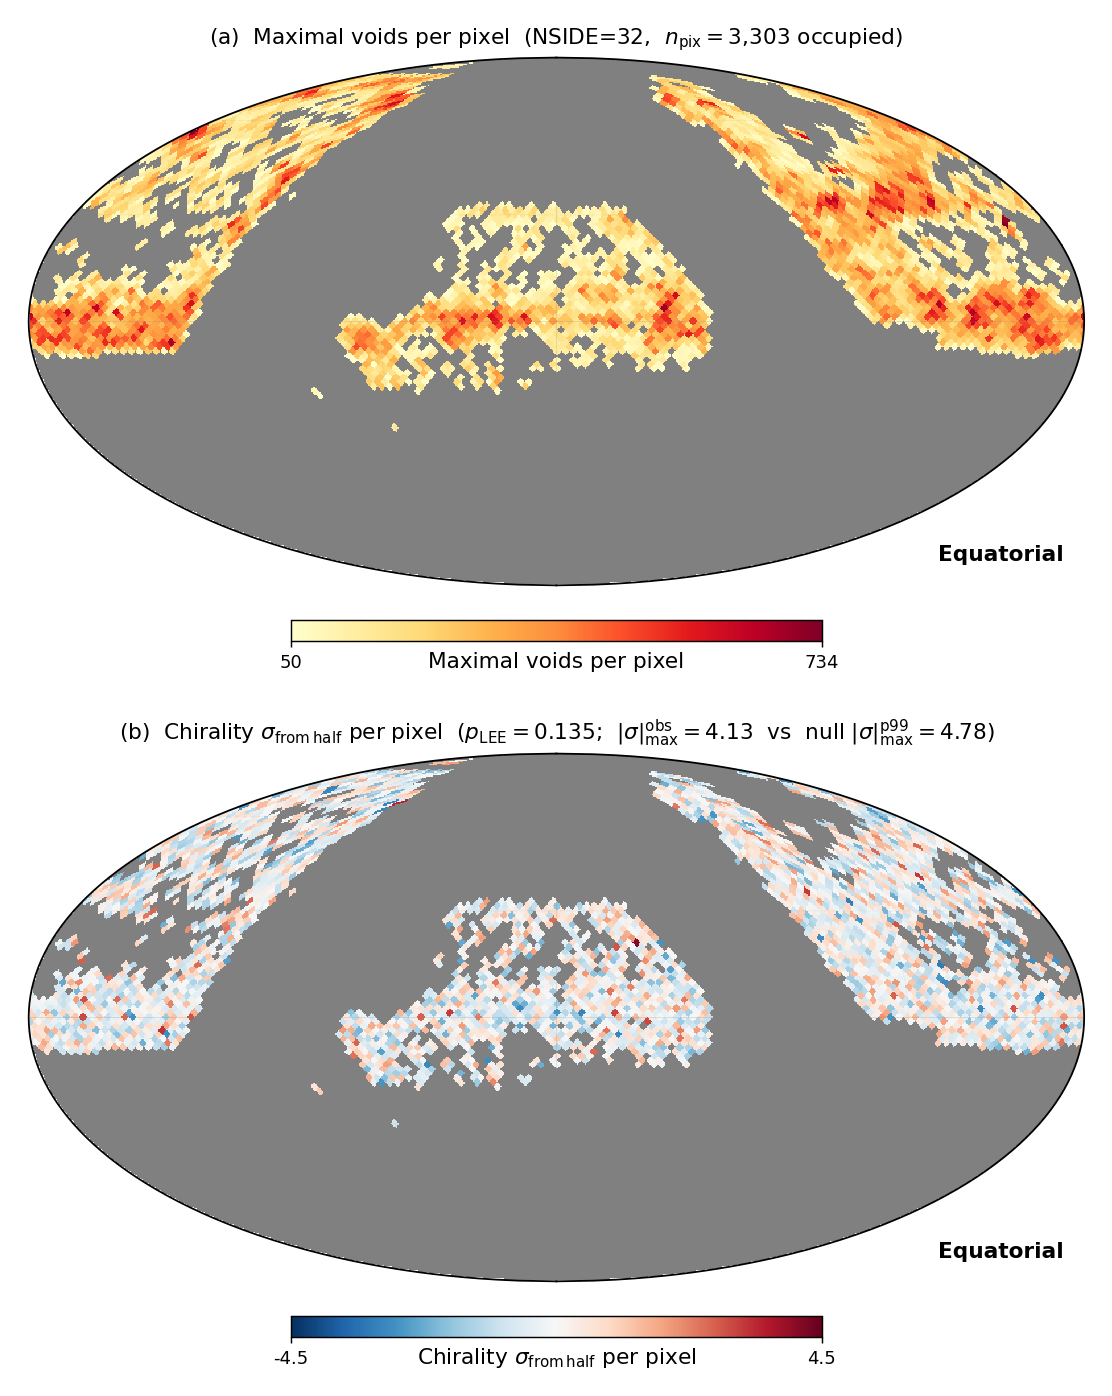
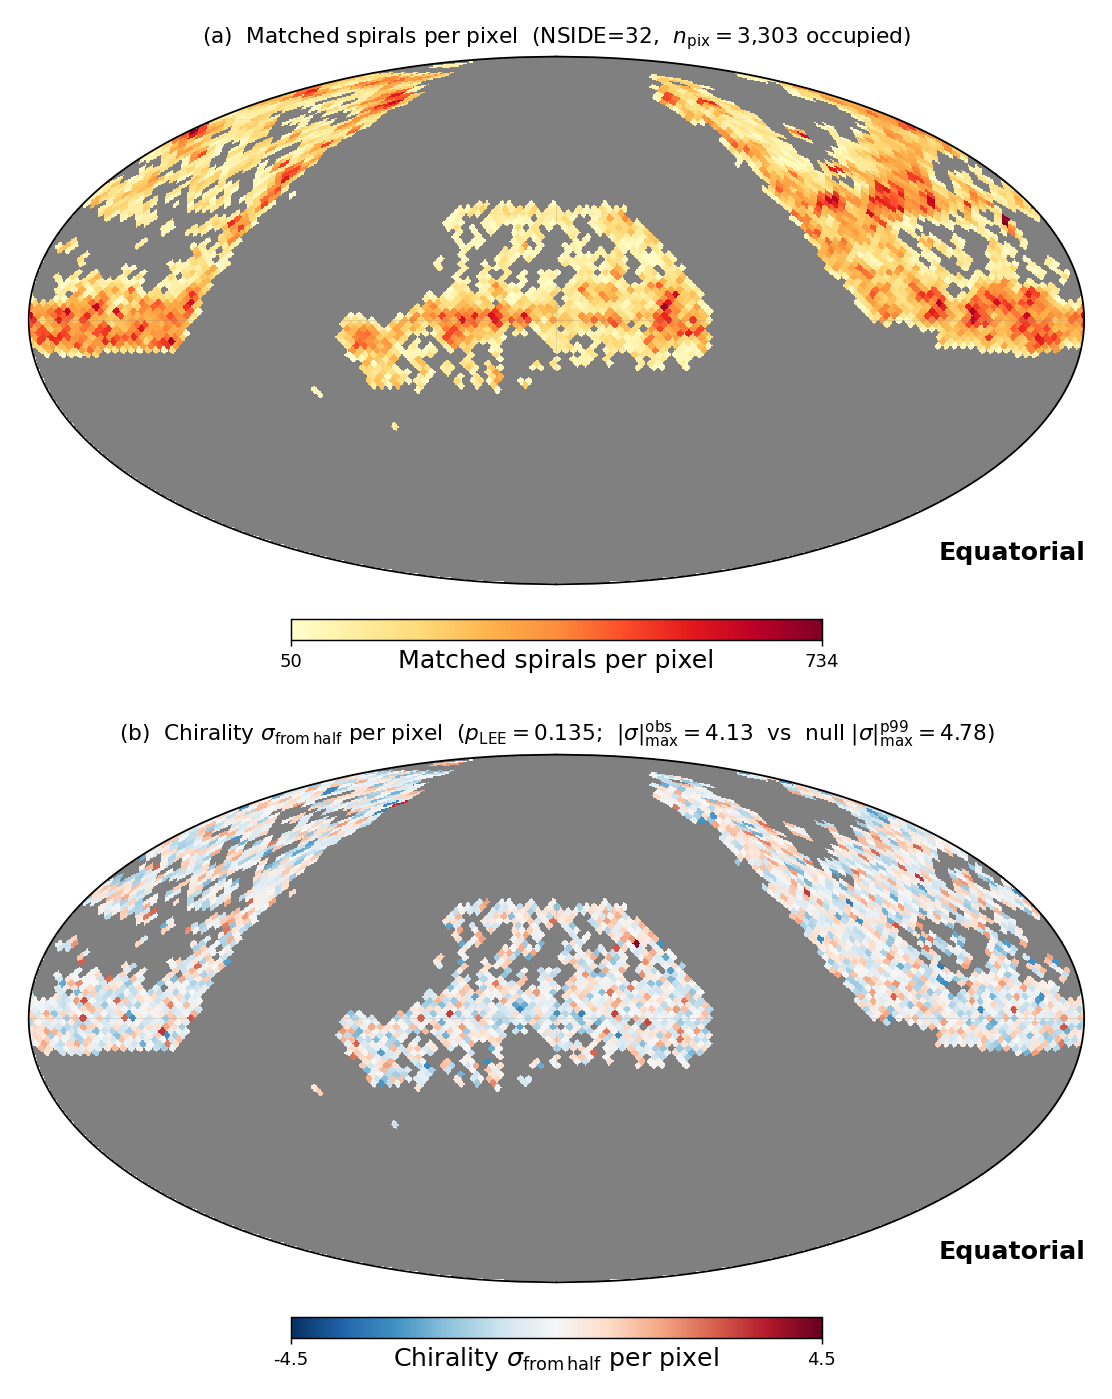
paper(p5): close catalog-native selection review

diff --git a/pipelines/p5_desi_chirality/scripts/37_make_void_chirality_skymap.py b/pipelines/p5_desi_chirality/scripts/37_make_void_chirality_skymap.py
@@ -1,0 +1,154 @@
+#!/usr/bin/env python3
+"""Regenerate P5 Figure 8 without the accidental outer Cartesian axes.
+
+The top Mollweide panel bins the 3,765 released VoidFinder MAXIMALS
+centres at HEALPix NSIDE=32.  The bottom panel bins the exact frozen
+z<=0.24 CW/CCW parent and displays sigma_from_half for pixels with at
+least 200 spirals.  Each healpy panel is rendered independently and the
+resulting raster panels are composited directly, so no 0--1 wrapper axes
+or overlapping wrapper labels can be introduced.
+"""
+from __future__ import annotations
+
+import tempfile
+from pathlib import Path
+
+import healpy as hp
+import matplotlib
+matplotlib.use("Agg")
+import matplotlib.image as mpimg
+import matplotlib.pyplot as plt
+import numpy as np
+import pandas as pd
+from astropy.io import fits
+from scipy import stats
+
+
+P5 = Path(__file__).resolve().parents[1]
+CACHE = P5 / "outputs/35_exact_primary_rows_cache.parquet"
+DESIVAST = P5 / "data/desivast"
+OUT = P5 / "paper/fig_p5_voids_vs_chirality_skymap.png"
+NSIDE = 32
+
+
+def render_panel(m: np.ndarray, title: str, cmap: str, vmin: float,
+                 vmax: float, unit: str, path: Path) -> np.ndarray:
+    plt.close("all")
+    hp.mollview(
+        m,
+        title=title,
+        cmap=cmap,
+        min=vmin,
+        max=vmax,
+        unit=unit,
+        cbar=True,
+        coord=["C"],
+        notext=False,
+    )
+    hp.graticule(dpar=30, dmer=60, color="#888888", alpha=0.3, lw=0.4)
+    plt.savefig(path, dpi=150, bbox_inches="tight", facecolor="white")
+    plt.close("all")
+    return mpimg.imread(path)
+
+
+def pad_white(image: np.ndarray, width: int) -> np.ndarray:
+    if image.shape[1] >= width:
+        return image
+    pad = np.ones(
+        (image.shape[0], width - image.shape[1], image.shape[2]),
+        dtype=image.dtype,
+    )
+    return np.concatenate([image, pad], axis=1)
+
+
+def main() -> int:
+    rows = pd.read_parquet(
+        CACHE,
+        columns=["desi_ra", "desi_dec", "match_class_eq"],
+    )
+    pix = hp.ang2pix(
+        NSIDE,
+        rows["desi_ra"].to_numpy(float),
+        rows["desi_dec"].to_numpy(float),
+        lonlat=True,
+    )
+    grouped = pd.DataFrame({
+        "pix": pix,
+        "cw": rows["match_class_eq"].to_numpy() == "CW",
+    }).groupby("pix")["cw"].agg(n="size", n_cw="sum")
+    grouped = grouped[grouped["n"] >= 200].copy()
+    grouped["sigma"] = (
+        grouped["n_cw"] - 0.5 * grouped["n"]
+    ) / (0.5 * np.sqrt(grouped["n"]))
+
+    ra_parts: list[np.ndarray] = []
+    dec_parts: list[np.ndarray] = []
+    for cap in ["NGC", "SGC"]:
+        path = DESIVAST / f"DESIVAST_BGS_VOLLIM_VoidFinder_{cap}.fits"
+        with fits.open(path, memmap=True) as hdul:
+            maximals = hdul["MAXIMALS"].data
+            ra_parts.append(np.asarray(maximals["RA"], dtype=float))
+            dec_parts.append(np.asarray(maximals["DEC"], dtype=float))
+    void_pix = hp.ang2pix(
+        NSIDE,
+        np.concatenate(ra_parts),
+        np.concatenate(dec_parts),
+        lonlat=True,
+    )
+    void_counts = pd.Series(void_pix).value_counts().sort_index()
+
+    npix = hp.nside2npix(NSIDE)
+    top = np.full(npix, hp.UNSEEN, dtype=float)
+    bottom = np.full(npix, hp.UNSEEN, dtype=float)
+    top[void_counts.index.to_numpy(int)] = void_counts.to_numpy(float)
+    bottom[grouped.index.to_numpy(int)] = grouped["sigma"].to_numpy(float)
+
+    both = grouped.join(void_counts.rename("n_voids"), how="inner")
+    r, p = stats.pearsonr(both["n_voids"], both["sigma"])
+    if len(void_counts) != 885 or int(np.median(void_counts)) != 4:
+        raise RuntimeError("unexpected maximal-void pixel distribution")
+    if len(grouped) != 1496 or len(both) != 727:
+        raise RuntimeError("unexpected chirality/both-pixel counts")
+    if not (abs(r - 0.005678491865223675) < 1e-12 and
+            abs(p - 0.8785192553228591) < 1e-12):
+        raise RuntimeError("pixel correlation does not reproduce the frozen result")
+
+    with tempfile.TemporaryDirectory() as tmp:
+        root = Path(tmp)
+        image_top = render_panel(
+            top,
+            "(a) DESIVAST maximal voids per pixel "
+            "(NSIDE=32; 885 occupied pixels)",
+            "YlOrRd",
+            1,
+            float(void_counts.max()),
+            "Maximal voids per pixel",
+            root / "top.png",
+        )
+        image_bottom = render_panel(
+            bottom,
+            "(b) Chirality $\\sigma_{\\rm from\\,half}$ per pixel "
+            "($n_{\\rm spiral} \\geq 200$; $z \\leq 0.24$)",
+            "RdBu_r",
+            -6,
+            6,
+            "$\\sigma_{\\rm from\\,half}$",
+            root / "bottom.png",
+        )
+
+    width = max(image_top.shape[1], image_bottom.shape[1])
+    image_top = pad_white(image_top, width)
+    image_bottom = pad_white(image_bottom, width)
+    gap = np.ones((18, width, image_top.shape[2]), dtype=image_top.dtype)
+    composite = np.concatenate([image_top, gap, image_bottom], axis=0)
+    mpimg.imsave(OUT, composite)
+    print(
+        f"wrote {OUT}; occupied_void_pixels={len(void_counts)}; "
+        f"valid_sigma_pixels={len(grouped)}; both={len(both)}; "
+        f"pearson_r={r:.12f}; p={p:.12f}"
+    )
+    return 0
+
+
+if __name__ == "__main__":
+    raise SystemExit(main())

diff --git a/pipelines/p5_desi_chirality/scripts/14_make_p5_healpix_skymap.py b/pipelines/p5_desi_chirality/scripts/14_make_p5_healpix_skymap.py
@@ -1,8 +1,8 @@
 #!/usr/bin/env python3
 """P5 paper figure: HEALPix per-pixel chirality σ-residual sky map at NSIDE=32.
 
-Two-panel figure (D-round visual fix, v0.1.83):
-  (a) TOP panel  — pixel count map (maximal voids per pixel; sequential
+Two-panel figure (reader-label correction, v0.1.129):
+  (a) TOP panel  — matched-spiral count per pixel (sequential
       YlOrRd colormap; integer colorbar ticks)
   (b) BOTTOM panel — per-pixel signed σ_from_half (diverging RdBu_r;
       labeled "Chirality σ_from_half per pixel")
@@ -15,11 +15,10 @@ Input:
     pipelines/p5_desi_chirality/results/analysis_healpix/nside32_cw_per_pixel.csv
 
 Output:
-    pipelines/p5_desi_chirality/figures/fig_p5_healpix_skymap_nside32.png
+    pipelines/p5_desi_chirality/paper/fig_p5_healpix_skymap_nside32.png
 """
 from __future__ import annotations
 
-import io
 import tempfile
 from pathlib import Path
 
@@ -31,10 +30,10 @@ import numpy as np
 import pandas as pd
 import healpy as hp
 
-REPO = Path("/Users/houstongolden/Desktop/CODE_2025/bigbounce")
-P5 = REPO / "pipelines/p5_desi_chirality"
+P5 = Path(__file__).resolve().parents[1]
+REPO = P5.parents[1]
 SRC = P5 / "results/analysis_healpix/nside32_cw_per_pixel.csv"
-OUT = P5 / "figures/fig_p5_healpix_skymap_nside32.png"
+OUT = P5 / "paper/fig_p5_healpix_skymap_nside32.png"
 
 NSIDE = 32
 
@@ -90,13 +89,13 @@ def main() -> int:
         img_top = _render_panel(
             n_map,
             title=(
-                "(a)  Maximal voids per pixel  "
+                "(a)  Matched spirals per pixel  "
                 "(NSIDE=32,  $n_{\\rm pix}=3{,}303$ occupied)"
             ),
             cmap="YlOrRd",
             vmin=n_min,
             vmax=n_max,
-            cbar_label="Maximal voids per pixel",
+            cbar_label="Matched spirals per pixel",
             tmp_path=tmp1,
         )
 

diff --git a/project-context/peer-reviews/INT_v3/ROUND_2026-07-14-P5-v0.1.128-EXACTPDF-f1ba53bf-NONANTHROPIC/closure/P5_v0.1.129_catalog_native_selection_closure.md b/project-context/peer-reviews/INT_v3/ROUND_2026-07-14-P5-v0.1.128-EXACTPDF-f1ba53bf-NONANTHROPIC/closure/P5_v0.1.129_catalog_native_selection_closure.md
@@ -1,0 +1,61 @@
+# P5 v0.1.129 catalog-native selection closure
+
+Date: 2026-07-14
+
+Status: **closure implementation complete; exact-PDF confirmation review and public release tasks remain pending.** This report does not claim journal acceptance, a public Git tag, a Zenodo DOI, or a Paper IV arXiv identifier.
+
+## Truth-gated result
+
+The released DESIVAST V2-REVOLVER GALZONE TARGET universe contains 694,642 unique TARGETIDs (604,032 NGC + 90,610 SGC). Its intersection with the frozen P5 parent contains 145,789 rows; 145,766 remain after `OUT=0`. Exact VoidFinder hole-union membership yields 31,937 void rows (15,873 CW) and 113,829 non-void rows (56,741 CW), with crude non-void-minus-void contrast +0.001466.
+
+The accepted Newton--Cholesky logistic standardization converged in 16 iterations, is full rank (78/78), has scaled-Gram condition number 1989.93, and maximum mean score 2.32e-13. The adjusted average marginal contrast is +0.001256:
+
+- coarse NSIDE=4 sky sandwich: SE 0.003413, 95% CI [-0.005432, +0.007945], p=0.713;
+- nearest-MAXIMALS sandwich: SE 0.003174, p=0.692;
+- overlap weighting: delta +0.001204, coarse-sky SE 0.003403, p=0.723;
+- maximum absolute SMD: 0.218623 before weighting, **0.000105635 after weighting**;
+- `EDGE=0`: adjusted delta +0.003497, coarse-sky SE 0.003737, p=0.349; post-weight maximum absolute SMD **0.0000457003**.
+
+Correction: an earlier working note carried forward a stale post-weight SMD of 0.0161 from the superseded nonconverged run. It is not an accepted result. The only accepted values are 0.000105635 and 0.0000457003 above.
+
+The public VAC does not provide the exact smoothed-mask/random FITS referenced by its construction. GALZONE membership is therefore described as the strongest released catalog-native selection proxy, not as a reconstruction of the unreleased angular selection function. The later LSS v1.5 BGS_BRIGHT-21.5 sample was not substituted because it overlaps only 15,378 frozen rows and would change the estimand.
+
+## Frozen evidence
+
[5 lines of base64/hex data omitted]
+- DESIVAST public-code commit: `11bebc66a5ba62e4f51c6afcc06bd3a62aa6c048`
+
+The rejected optimizer result and manifest remain preserved as negative evidence:
+
[2 lines of base64/hex data omitted]
+
+Official provenance: [DESIVAST DR1 documentation](https://data.desi.lbl.gov/doc/releases/dr1/vac/desivast/), [public VAC](https://data.desi.lbl.gov/public/dr1/vac/dr1/desivast/), and [public code](https://github.com/hbrincon/DESIVAST).
+
+## Manuscript and figure closure
+
+Version `v0.1.129-2026-07-14` adds the performed catalog-native adjustment and overlap-weighting result; distinguishes Bonferroni half-widths from maximum endpoints; corrects the counting scale to 2SE=0.463 pp (normal 95% half-width 0.454 pp) and heterogeneous quadrature to 0.959 ~= 0.96 pp; removes the unsupported RSD extrapolation; reports the dark-program residual as nominal p~=0.049 but non-significant after multiplicity; replaces “three independent algorithms” with three definitions spanning two families; and narrows unverified Paper IV/tag/DOI language.
+
+Both sky figures were regenerated. The general HEALPix top panel now correctly says matched spirals per pixel; the void/chirality figure has no wrapper axes or overlapping labels. Figure SHA-256 values are `236e910a...` and `fe00ffc9...`.
+
+## PDF audit
+
[2 lines of base64/hex data omitted]
+- pages: 42; bytes: 1,434,435
+- compiler: `tectonic -X compile p5_desi_chirality.tex --keep-intermediates --keep-logs`
+- log: zero overfull boxes, undefined citations/references, emergency stops, or fatal errors; only underfull-box warnings
+- visual: all 42 pages rendered and inspected; no column overflow, overlap, clipped date, broken figure wrapper, or table spill observed
+- text scan: no active placeholder arXiv ID, false posted/DOI language, deferred-adjustment claim, unsupported RSD threshold, or stale 0.9-pp budget
+- URL annotations: 43 returned HTTP 200; one valid DOI endpoint returned bot-gated 403; A37--A40 returned expected pre-push 404 and are explicitly identified in the manuscript as pending the release-candidate push
+
+## Remaining release gates
+
+1. Run an exact-PDF confirmation review on the frozen v0.1.129 PDF.
+2. Integrate site/SSOT/Convex/readiness changes centrally; this bounded lane was instructed not to mutate those shared surfaces.
+3. Push the committed A37--A40 artifacts, verify all four URLs return 200, then create and verify the immutable tag/archive if submission proceeds.
+4. Insert a Paper IV arXiv identifier only after it exists and is independently verified.
